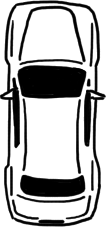
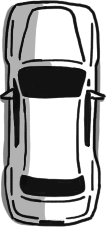
Add shadows to vehicles

diff --git a/gui_vehicle.py b/gui_vehicle.py
@@ -19,7 +19,7 @@ VEHICLE_COLORS = {
     "F": (0, 128, 0),      # dark green
     "G": (90, 90, 90),     # dark gray
     "H": (245, 245, 220),  # beige
-    "I": (255, 255, 224),  # light yellow
+    "I": (252, 251, 155),  # light yellow
     "J": (139, 69, 19),    # brown
     "K": (128, 128, 0),    # khaki
 
